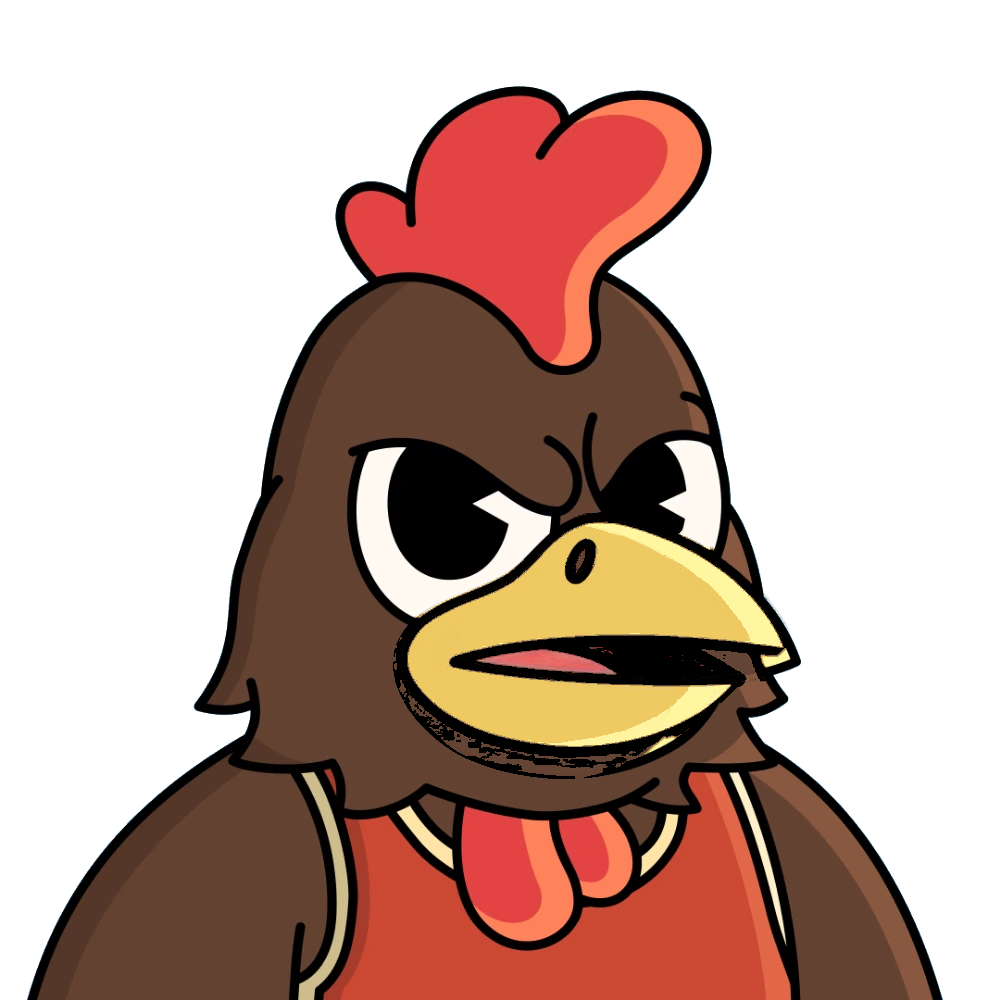
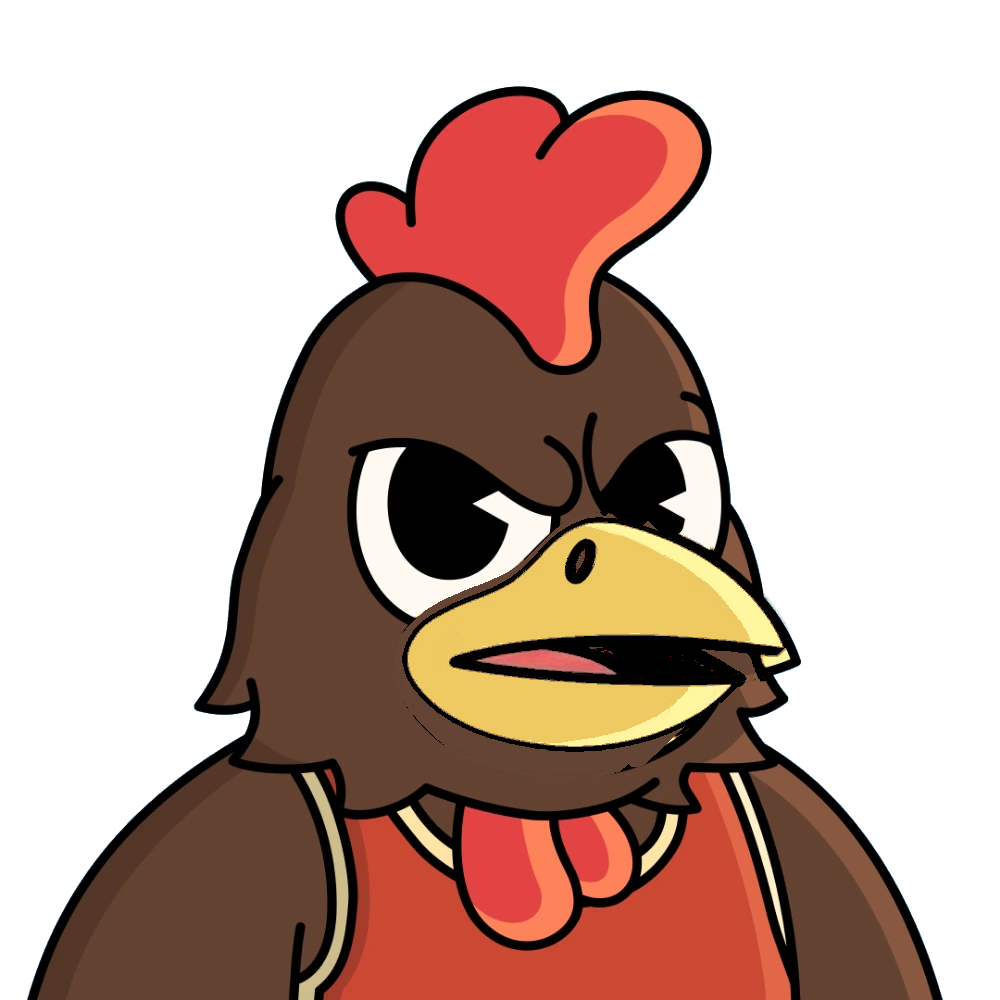
Kits: the smiling twin first only for ghosts and cocks, the last dark-bit clean-up only for wolves (each measured on/off by kind); cock kit: the old jaw line, hatching and pale streak round the redrawn beaks cleaned (kit_beak_ghost.py)
Measured 25 Nov: smiling twin first, on the 424 twin-faced Nibbles: ghosts 62/60, cocks 37/34, beavers 44/47, gnomes 50/51 (rest even).
Dark-bit clean-up, on all 654: wolves 68/65; ghosts 81/83, cocks 67/68, gnomes 73/74, bears 75/76 (rest even).
Cock kit: the nibble check compares each cock with its kit frame, so the kit's own scratches passed; seen on white cocks.

Claude-Session: https://claude.ai/code/session_01AAjfD4JXrwKrGtAMJHTTVa

diff --git a/beta/index.html b/beta/index.html
@@ -1022,11 +1022,12 @@ async function donorFor(id, a, B) {
   const want = a.Mouth === 'Frown' ? ['Smile'] : PLAIN_MOUTH;
   const m = await TRAITS; if (!m) return null;
   const col = n => m.k.indexOf(n), val = (row, n) => { const j = col(n); return row[j] >= 0 ? m.v[j][row[j]] : undefined; };
+  const smileFirst = SMILE_FIRST_KINDS.has(a.Character) && !self.__oldTwin;
   let best = 0, bs = -1;
   m.t.forEach((row, k) => { const did = k + 1; if (did === id || val(row, 'Character') !== a.Character || val(row, 'Skin') !== a.Skin || val(row, 'Outfit') !== a.Outfit) return;
     if (/mask|goggle/i.test(String(val(row, 'Accessory') || '')) && val(row, 'Accessory') !== a.Accessory) return;   // (a twin in a mask or goggles that reach the cheeks: its mask was pasted on this Nibble's cheek (the nibble check, 23 Nov: an opera mask on a blue ghost))
     const mo = val(row, 'Mouth'); if (!want.includes(mo)) return;
-    const sc = (mo === 'Smile' ? (self.__oldTwin ? 2 : 8) : 1) + (val(row, 'Accessory') === a.Accessory ? (/mask|goggle|cloak/i.test(String(a.Accessory || '')) ? 16 : 4) : 0) + (val(row, 'Eyes') === a.Eyes ? 1 : 0); if (sc > bs) { bs = sc; best = did; } });
+    const sc = (mo === 'Smile' ? (smileFirst ? 8 : 2) : 1) + (val(row, 'Accessory') === a.Accessory ? (/mask|goggle|cloak/i.test(String(a.Accessory || '')) ? 16 : 4) : 0) + (val(row, 'Eyes') === a.Eyes ? 1 : 0); if (sc > bs) { bs = sc; best = did; } });
   // (a smiling twin first, whatever it wears on its head: its mouth is the kit's own, so its talking frames come out clean; a
   //  frowning one's line has to be taken off first, and left thin doubled lines on pink and green ghosts (the nibble check, 24 Nov))
   // (no twin in the same outfit (about 90 Nibbles): one of the same kind and skin in another outfit, its face only (the kit
@@ -1034,7 +1035,7 @@ async function donorFor(id, a, B) {
   //  every talking mouth: the nibble check, 24 Nov)
   let loose = false;
   const bestM = best ? val(m.t[best - 1], 'Mouth') : null;
-  if (best && bestM !== 'Smile' && !self.__oldTwin && want.includes('Smile') && !/tongue|drool|awooga|open|surprised/i.test(String(a.Mouth || ''))) { let b2 = 0, s2 = -1; m.t.forEach((row, k) => { const did = k + 1; if (did === id || val(row, 'Character') !== a.Character || val(row, 'Skin') !== a.Skin || val(row, 'Mouth') !== 'Smile') return;
+  if (best && bestM !== 'Smile' && smileFirst && want.includes('Smile') && !/tongue|drool|awooga|open|surprised/i.test(String(a.Mouth || ''))) { let b2 = 0, s2 = -1; m.t.forEach((row, k) => { const did = k + 1; if (did === id || val(row, 'Character') !== a.Character || val(row, 'Skin') !== a.Skin || val(row, 'Mouth') !== 'Smile') return;
     if (/mask|goggle/i.test(String(val(row, 'Accessory') || '')) && val(row, 'Accessory') !== a.Accessory) return;
     const sc = (val(row, 'Accessory') === a.Accessory ? 4 : 0) + (val(row, 'Eyes') === a.Eyes ? 1 : 0); if (sc > s2) { s2 = sc; b2 = did; } });
     if (b2 && !self.__frownTwin) { best = b2; loose = true; } }   // (a smiling one in other clothes over a frowning one in the same: its face only, and clean. Not for a mouth that reaches
@@ -1042,7 +1043,7 @@ async function donorFor(id, a, B) {
   if (!best) m.t.forEach((row, k) => { const did = k + 1; if (did === id || val(row, 'Character') !== a.Character || val(row, 'Skin') !== a.Skin) return;
     if (/mask|goggle/i.test(String(val(row, 'Accessory') || '')) && val(row, 'Accessory') !== a.Accessory) return;
     const mo = val(row, 'Mouth'); if (!want.includes(mo)) return;
-    const sc = (mo === 'Smile' ? (self.__oldTwin ? 2 : 8) : 1) + (val(row, 'Accessory') === a.Accessory ? (/mask|goggle|cloak/i.test(String(a.Accessory || '')) ? 16 : 4) : 0) + (val(row, 'Eyes') === a.Eyes ? 1 : 0); if (sc > bs) { bs = sc; best = did; loose = true; } });
+    const sc = (mo === 'Smile' ? (smileFirst ? 8 : 2) : 1) + (val(row, 'Accessory') === a.Accessory ? (/mask|goggle|cloak/i.test(String(a.Accessory || '')) ? 16 : 4) : 0) + (val(row, 'Eyes') === a.Eyes ? 1 : 0); if (sc > bs) { bs = sc; best = did; loose = true; } });
   if (!best) return null;
   try { const im = new Image(); im.crossOrigin = 'anonymous'; im.src = nibblePic(best); await im.decode(); const c = B.cutOriginal(im, KIT_GAPS[a.Character]).canvas; c.loose = loose; return c; } catch (e) { return null; }
 }
@@ -1050,6 +1051,12 @@ async function donorFor(id, a, B) {
 // twin-faced Nibbles of the 654 check set, 25 Nov, with it on / off: ghosts 62/57, cocks 37/32, raccoons 42/41 pass; for
 // bears (55/60), beavers (38/44), wolves (31/33), geckos (47/49) and gnomes (49/50) it cut more boxes than it fixed
 const TRANSPLANT_KINDS = new Set(['Ghost', 'Cock', 'Raccoon']);
+// kinds whose twin is a smiling one first (index.html, donorFor), measured on the same 424, 25 Nov, smiling first / as before:
+// ghosts 62/60, cocks 37/34; beavers 44/47 and gnomes 50/51 do better as before (a frowning twin in the same hat), the rest even
+const SMILE_FIRST_KINDS = new Set(['Ghost', 'Cock']);
+// kinds whose talking mouths get the last clean-up of leftover dark bits in the mouth area (kit.js), measured on all 654 with it
+// on / off, 25 Nov: wolves 68/65; ghosts 81/83, cocks 67/68, gnomes 73/74, bears 75/76 do better without, the rest even
+const POST_KINDS = new Set(['Wolf']);
 // things in front of the mouth, kept whole on top of every talking mouth (kit.js)
 const FRONT_MOUTH = /mustache|straw|match/i;   // (dark magic isn't: its still wisps are replaced by the moving ones)
 // (a gum bubble isn't kept over the talking mouths any more: it hid every mouth, only its edges moved (GEAUX, 21 Nov: 'bubblegum
@@ -1086,7 +1093,7 @@ async function kitPrepare(id) {
       // drawn mouths for the kinds that have them (rig.js), when the face under the mouth is a plain one (its own, or its twin's)
       let rig = null; if (RIG_KINDS.has(kind) && (a.Mouth === 'Smile' || donor) && !groupOf(a)) { const RG = await codeImport('rig.js'); if (RG.RIGS[kind]) rig = { def:RG.RIGS[kind], draw:RG.rigFrames }; }
       const res = K.fromKit(cut.canvas, { base:art.base, mouths:art.mouths, eyes:art.eyes }, { blink:blinks(a) && !KIT_NO_BLINK.has(kind) && !(groupOf(a) && groupOf(a).noBlink && groupOf(a).noBlink.test(String(a.Eyes || ''))), wideFace:!!(groupOf(a) && groupOf(a).wideFace), loopBody:!!(groupOf(a) && groupOf(a).loop),
-        donor, rig, transplant:TRANSPLANT_KINDS.has(kind), dbg:window.__kdbg || null, gum:/bubble/i.test(String(a.Mouth || '')) && !!donor, front:/mustache/i.test(String(a.Mouth || '')) ? 'mustache' : /straw/i.test(String(a.Mouth || '')) ? 'stick' : /match/i.test(String(a.Mouth || '')) ? 'match' : FRONT_MOUTH.test(String(a.Mouth || '')) || (/bubble/i.test(String(a.Mouth || '')) && !donor) });   // (a gum bubble with no twin on hand: kept in front, as before)
+        donor, rig, transplant:TRANSPLANT_KINDS.has(kind), post:POST_KINDS.has(kind), dbg:window.__kdbg || null, gum:/bubble/i.test(String(a.Mouth || '')) && !!donor, front:/mustache/i.test(String(a.Mouth || '')) ? 'mustache' : /straw/i.test(String(a.Mouth || '')) ? 'stick' : /match/i.test(String(a.Mouth || '')) ? 'match' : FRONT_MOUTH.test(String(a.Mouth || '')) || (/bubble/i.test(String(a.Mouth || '')) && !donor) });   // (a gum bubble with no twin on hand: kept in front, as before)
       // (a beaver's wide AH and L used to be swapped for its small open mouth on any outfit but the reference's, for scraps
       // over collars and bows in GEAUX's sitcom (21 Nov). The kit engine keeps a Nibble's own clothes now: the all-Nibbles
       // check on a beaver of every outfit found no scraps with them, and with the swap a beaver's mouth barely opened

diff --git a/beta/kit.js b/beta/kit.js
@@ -137,7 +137,7 @@ function colourMap(R, T, where, okT) {
 
 // T: this Nibble's picture (background cut, 1000 px). ref: { base, mouths[10], eyes[5] } of the kind's reference.
 // Returns { frames[10], eyes[5], mouthBox, eyeBox } in the builder's format.
-export function fromKit(Timg, ref, { blink = true, dbg = null, wideFace = false, loopBody = false, front = false, donor = null, rig = null, gum = false, transplant = true } = {}) {
+export function fromKit(Timg, ref, { blink = true, dbg = null, wideFace = false, loopBody = false, front = false, donor = null, rig = null, gum = false, transplant = true, post = true } = {}) {
   const T = data(Timg), T0 = T.slice(), R = data(ref.base), K = ref.mouths.map(data);
   const donorPure = donor ? (() => { const c = cv(); c.getContext('2d').drawImage(donor, 0, 0, N, N); return c; })() : null;   // (the twin as it is, for its own talking frames below)
   // Gemini's panels have small dark flecks in the fur: a dark spot too small to be part of a line takes the colour around it
@@ -621,7 +621,7 @@ export function fromKit(Timg, ref, { blink = true, dbg = null, wideFace = false,
     // over plain skin, is a leftover of this Nibble's (or its twin's) own mouth line, and becomes the kit's face there.
     // (Doubled lines, ticks and streaks on smiling and twin-faced Nibbles, ghosts most: the nibble check, 24 Nov.) Things
     // worn in front (a mustache, a match) are drawn back over afterwards.
-    if (!self.__noPost) { const dkD = new Uint8Array(N * N); for (let p = 0; p < N * N; p++) if (Zd[p] && D[p * 4 + 3] > 120 && lum(D, p * 4) < 420) dkD[p] = 1;
+    if (!self.__noPost && post) { const dkD = new Uint8Array(N * N); for (let p = 0; p < N * N; p++) if (Zd[p] && D[p * 4 + 3] > 120 && lum(D, p * 4) < 420) dkD[p] = 1;
       const nearD = grow(dkD, 3), ownW = grow(own, 6), fix = new Uint8Array(N * N); let nf = 0;
       for (let p = 0; p < N * N; p++) { if (!Zd[p] || !ownW[p] || nearD[p]) continue; const i = p * 4; if (o[i + 3] < 200) continue;
         if (D[i + 3] < 200 || !isSkin(D, i)) continue; if (keepT[p] && tCloth[p]) continue;
